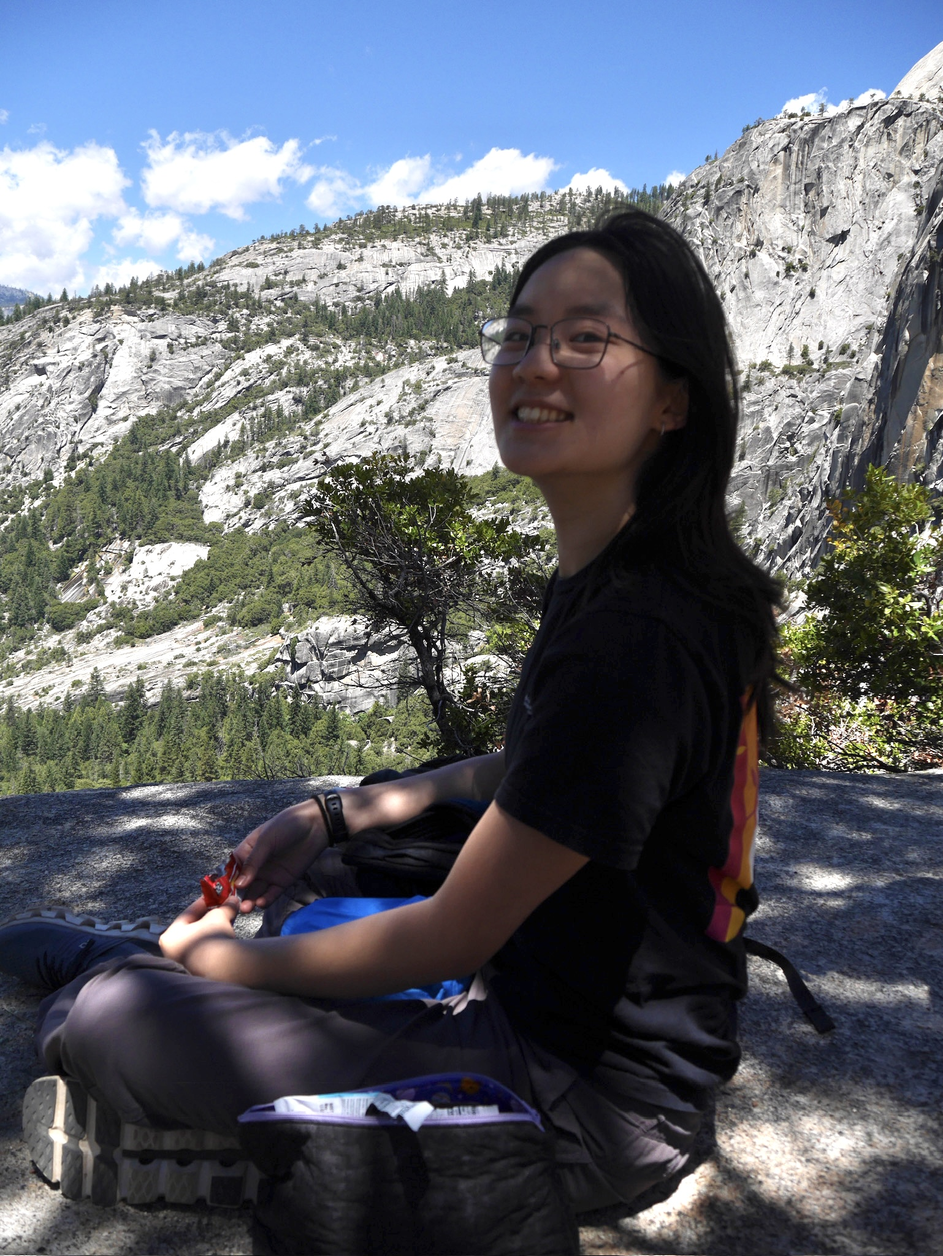
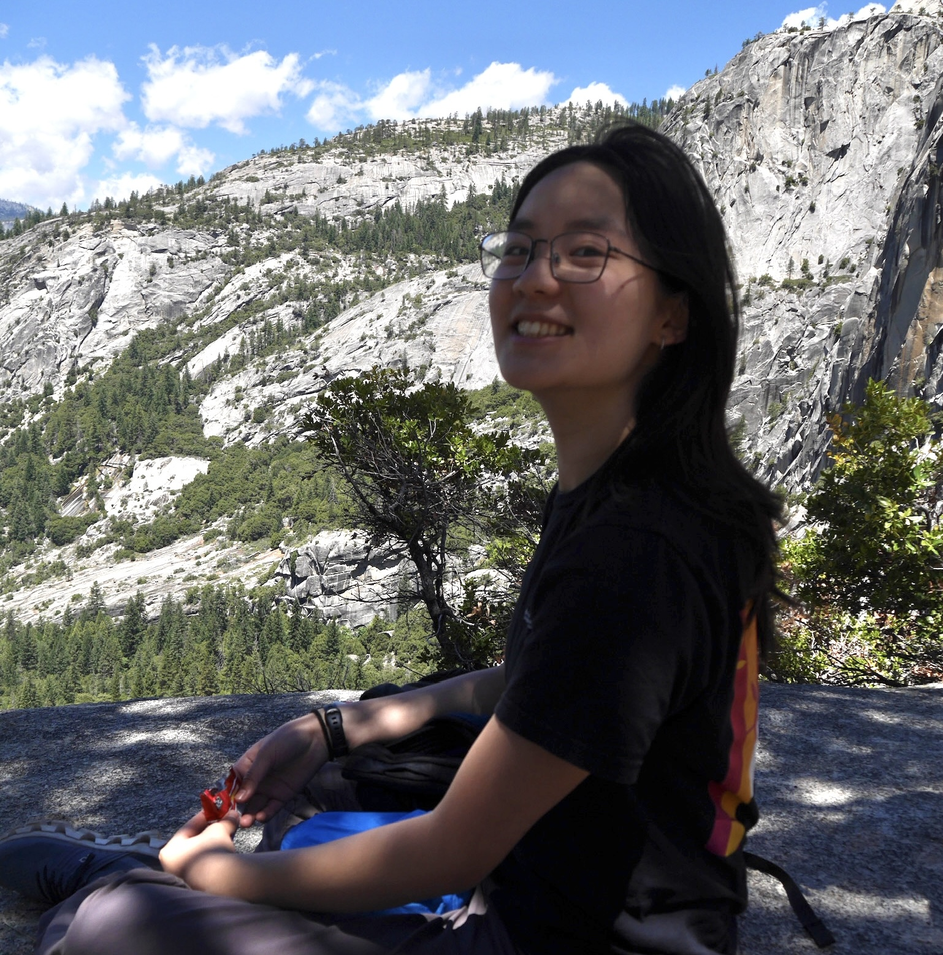
Documented building process in A1 page

diff --git a/docs/a1.html b/docs/a1.html
@@ -4,15 +4,156 @@
     <meta charset="utf-8" />
     <meta name="viewport" content="width=device-width, maximum-scale=1.0" />
 
-    <title>Example Student's HCDE 439 Physical Computing Page!</title>
+    <title>Jordan Cheung's HCDE 439 Physical Computing Page!</title>
 
     <link href="style.css" rel="stylesheet" type="text/css" />
   </head>
   <body>
-    <h1>Example Student's Assignment 1!</h1>
+    <h1>Assignment 1: Blink!</h1>
     <div class="header">
-      <img src="red-panda.jpg" />
-      <p>Here is all the documentation for assignment 1!</p>
+      <img src="a1/a1-jingle_bells.gif" />
+      <p>"You work for a holiday light company and the chief innovation officer wants you to come up with a cool new pattern of blinking lights. 
+        <br>
+        <br>
+        You will create a schematic for at least 3 LEDs connected to your Arduino, which you will implement as a circuit on your breadboard. 
+        You will write firmware (in a .ino file) for the circuit that makes the LEDs blink in a pattern. You will also answer some questions."</p>
+    </div>
+    <div>
+      <br>
+      <h2>Planning</h2>
+      <p>I started this assignment off by writing out the requirements of the assignment:</p>
+      <ul>
+        <li>Use 3+ LEDs (any colors)</li>
+        <li>Limit current flowing using resistors</li>
+        <li>Each LED should blink (independently)</li>
+        <li>Comment each line of code</li>
+      </ul>
+      <p>
+        Since the assignment was holiday-themed, I thought I could blink colorful lights to a holiday tune.
+        "Jingle Bells" seemed like a solid classic with not too much rhythmic complexity and only four notes.
+      </p>
+      <br>
+
+      <h3>Schematic</h3>
+      <p>I drew a schematic to visualize my 4-LED circuit.</p>
+      <img src="a1/a1_schematic.jpeg" width = 500>
+      <br>
+
+      <h3>Calculations</h3>
+      <p>
+        I found the LED forward voltages for each color and suggested current in datasheets online. 
+        I then did some math to figure out which resistors to use so I wouldn't explode my LEDs. 
+        Each LED required a resistor between 100Ω and 150Ω. The closest resistors in my kit were 100Ω and 220Ω,
+        so I went with 220Ω for all of them to be safe.
+      </p>
+      <div class="row">
+        <div class="column">
+          <img src="a1/a1-calculations.jpeg" width = 500>
+        </div>
+        <div class="column"></div>
+          <img src="a1/a1-resistors.jpeg" width = 250>
+        </div>
+        <div class="column"></div>
+      </div>
+      <br>
+
+      <h2>Construction</h2>
+      <p>
+        I then brought my drawings to life by building my circuit using my breadboard, Arduino, wires,
+        LEDs, and 220Ω resistors.
+      </p>
+      <div class="row">
+        <div class="column">
+          <img src="a1/a1-full_board.jpeg" width = 250>
+        </div>
+        <div class="column">
+          <img src="a1/a1-breadboard_closeup.jpeg" width = 250>
+        </div>
+        <div class="column">
+          <img src="a1/a1-arduino_closeup.jpeg" width = 250>
+        </div>
+      </div>
+      <br>
+
+      <h2>Code</h2>
+      <p>
+        I then wrote some code to blink the lights to "Jingle Bells."
+      </p>
+      <pre>
+        <code>
+          // the setup function runs once when you press reset or power the board
+          void setup() {
+            // initialize digital pin LED_BUILTIN as an output.
+            pinMode(12, OUTPUT); // Using pin 12 as an output (BLUE)
+            pinMode(8, OUTPUT); // Using pin 8 as an output (GREEN)
+            pinMode(7, OUTPUT); // Using pin 7 as an output (YELLOW)
+            pinMode(4, OUTPUT); // Using pin 4 as an output (RED)
+          }
+  
+          // the loop function runs over and over again forever
+          void loop() {
+            // Everything off
+            digitalWrite(12, LOW); // Blue LED off
+            digitalWrite(8, LOW); // Green LED off
+            digitalWrite(7, LOW); // Yellow LED off
+            digitalWrite(4, LOW); // Red LED off
+  
+            // GREEN GREEN GREEN. JIN GLE BELLS.
+            digitalWrite(8, HIGH); // G LED on
+            delay(500); // Hold for half a second
+            digitalWrite(8, LOW); // G LED off
+            delay(100); // Hold for 100ms
+            digitalWrite(8, HIGH); // G LED on
+            delay(500); // Hold for half a second
+            digitalWrite(8, LOW); // G LED off
+            delay(100); // Hold for 100ms
+            digitalWrite(8, HIGH); // G LED on
+            delay(500); // Hold for half a second
+            digitalWrite(8, LOW); // G LED off
+            delay(500); // Hold for half a second
+  
+            // GREEN GREEN GREEN. JIN GLE BELLS.
+            digitalWrite(8, HIGH); // G LED on
+            delay(500); // Hold for half a second
+            digitalWrite(8, LOW); // G LED off
+            delay(100); // Hold for 100ms
+            digitalWrite(8, HIGH); // G LED on
+            delay(500); // Hold for half a second
+            digitalWrite(8, LOW); // G LED off
+            delay(100); // Hold for 100ms
+            digitalWrite(8, HIGH); // G LED on
+            delay(500); // Hold for half a second
+            digitalWrite(8, LOW); // G LED off
+            delay(500); // Hold for half a second
+  
+            // GREEN RED BLUE GREEN YELLOW. JIN GLE ALL THE WAY.
+            digitalWrite(8, HIGH); // G LED on
+            delay(500); // Hold for half a second
+            digitalWrite(8, LOW); // G LED off
+            digitalWrite(4, HIGH); // R LED on
+            delay(500); // Hold for half a second
+            digitalWrite(4, LOW); // R LED off
+            digitalWrite(12, HIGH); // B LED on
+            delay(1000); // Hold for one second
+            digitalWrite(12, LOW); // B LED off
+            digitalWrite(8, HIGH); // G LED on
+            delay(250); // Hold for 250ms
+            digitalWrite(8, LOW); // G LED off
+            digitalWrite(7, HIGH); // Y LED on
+            delay(500); // Hold for half a second
+            digitalWrite(7, LOW); // Y LED off
+            delay(2000); // Hold for two seconds
+          }
+        </code>
+      </pre>
+      <br>
+
+      <h2>Testing</h2>
+      <p>Finally, I uploaded my code and jingled all the way!</p>
+      <img src="a1/a1-jingle_bells.gif">
+
+      <h2>Additional questions</h2>
+      
     </div>
   </body>
 </html>

diff --git a/docs/index.html b/docs/index.html
@@ -24,9 +24,9 @@
       <div class="assignment">
         <a href="a1.html">
           <h2>Assignment 1: Blink!</h2>
-          <img src="jorch-yoz.JPG" />
+          <img src="a1/a1-jingle_bells.gif" />
         </a>
-        <p>Assignment 1 was a panda!</p>
+        <p>I used 4 LEDs to blink "Jingle Bells"!</p>
       </div>
 
       <div class="assignment">

diff --git a/docs/style.css b/docs/style.css
@@ -54,6 +54,19 @@ h2 {
   margin-top: 2em;
 }
 
+/* Three image containers (use 25% for four, and 50% for two, etc) */
+.column {
+  float: left;
+  padding: 5px;
+}
+
+/* Clear floats after image containers */
+.row::after {
+  content: "";
+  clear: both;
+  display: table;
+}
+
 .assignment a {
   color: #000;
   text-decoration: none;
